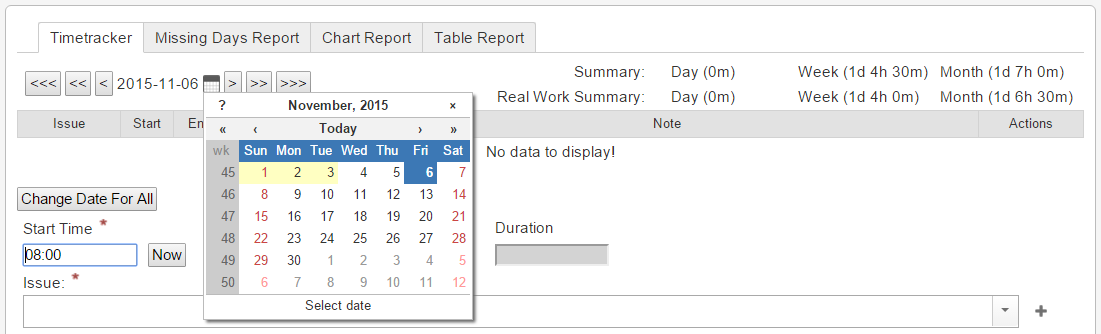
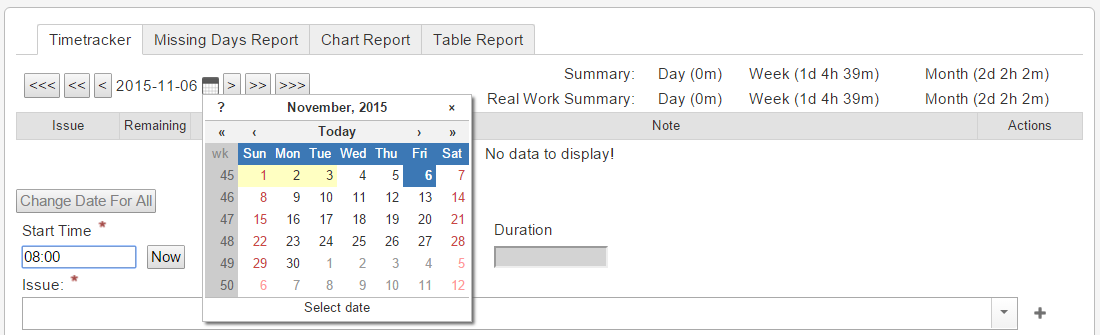
Change images and add info for the 2.2.0 release

diff --git a/index.html b/index.html
@@ -146,11 +146,11 @@
             viewed. Next to the issue code a red exclamation mark appears if it is not closed and if
             there is no more estimated time assigned to it. If the issue is amongst the
             non-estimated ones, then the exclamation mark does not appear.</li>
+		  <li><b>Remaining</b> - Remaining time on the issue in JIRA format (d h m).</li>
           <li><b>Start</b> - Start date of the worklog. Its format: hh:mm.</li>
           <li><b>End</b> - End date of the worklog: Its format: hh:mm.</li>
           <li><b>Duration</b> - Duration of the worklog; the time between the start and the end
-            date in JIRA format (d h m).</li>
-          <li><b>Remaining</b> - Remaining time on the issue in JIRA format (d h m).</li>
+            date in JIRA format (d h m).</li>          
           <li><b>Note</b> - Description of the worklog.</li>
           <li><b>Actions</b> - It contains action buttons: Edit button - After pressing it, the
             given worklog can be edited. Delete button - After pressing it, the given worklog is
@@ -164,9 +164,9 @@
         <p>The input fields can be seen in the bottom of the page. These fields are used when
           editing worklogs.
         <ul>
-          <li><b>Edit All</b> - It may be used to edit the worklog of a whole day. By means of
+          <li><b>Change Date For All</b> - It may be used to edit the worklog of a whole day. By means of
             this option, all the worklogs assigned to a specific date can be reassigned to another
-            one. You may read more about the Edit All function under the Edit Worklog menu item.</li>
+            one. You may read more about the Change Date For All function under the <a href="#edit_worklogs">Edit Worklog</a> menu item.</li>
           <li><b>Start Time</b> - Start time of the worklog. Required! Its format: hh:mm. Its
             default value is 08:00, however, if there are worklogs belonging to the given day, then
             its value equals the end date of the last worklog.
@@ -234,8 +234,8 @@
           effect. Editing can be cancelled by pressing the Cancel button.</p>
         <img class="img-responsive img-thumbnail" src="images/jttp_edit.png" alt="Edit worklog" />
 
-        <h3 id="edit_all">Edit All function</h3>
-        <p>The Edit All button can be found below the worklog table, and it can be used to edit
+        <h3 id="edit_all">Change Date For All function</h3>
+        <p>The Change Date For All button can be found below the worklog table, and it can be used to edit
           all the worklogs assigned to a particular day. In this case, only the date of the worklogs
           can be changed. After selecting the desired date, one may save the worklogs by clicking
           the Save button. At this time, the worklogs will no longer be assigned to the previous
@@ -322,12 +322,14 @@
             they are not counted as such (e.g.: National Holidays).</li>
           <li><b>Include date</b> - List of those days that are non-working days by default,
             but they are counted as working days.</li>
-        </ul>
-        <p>The settings can be saved by pressing the Save button. The Reset button can restore
-          the foregoing settings. By selecting the Cancel button, the user is redirected to the
-          Administrator screen without making any changes.</p>
+        </ul>        
         <img class="img-responsive img-thumbnail" src="images/jttp_global_settings.png"
           alt="Global settings" />
+		<p>The settings can be saved by pressing the Save button. The Reset button can restore
+          the foregoing settings. By selecting the Cancel button, the user is redirected to the
+          Administrator screen without making any changes.</p>
+		<img class="img-responsive img-thumbnail" src="images/jttp_global_settings_buttons.png"
+          alt="Global settings buttons" />
 
       </div>
       <hr class="featurette-divider">
@@ -447,13 +449,70 @@
 
 	  <div class="bs-docs-featurette cookbook" id="analytics">
 	    <h2>Analytics</h2>
-        <p>The Timetracker add-on collects anonymous usage data, which allows us to measure user experience. 
-		  All  sensitive data is encrypted before being uploaded.</p>
+        <p>In order to enhance the features of the add-on, we need to understand how our customers use Timetracker. 
+           To achieve this, we would like to collect anonymous data about the usage of this plugin:</p>
+           <ul>
+             <li>Anonymized IP address (to be able to create statistics about the usage in the different countries)</li>
+			 <li>Hash of the domain address of the JIRA system (we will not know your domain address)</li>
+			 <li>Hash of the user (we will not know your original user id)</li>
+			 <li>Usage count of the time tracking feature</li>
+			 <li>Usage count of the Missing Days Report</li>
+			 <li>Usage count of the Chart Report</li>
+			 <li>Usage count of the Table Report</li>
+			 <li>User Agent of the browser being used</li>
+			 <li>Timetracker version number</li>
+		   </ul>
+		<p>This option is on by default, but you can switch it off on the Global settings page.</p>
+	  </div>
+	  <hr class="featurette-divider">
+	  
+	  <div class="bs-docs-featurette cookbook" id="feedback">
+	    <h2>Feedback</h2>
+        <p>Your thoughts about Timetracker are very important to us, so we built in an easy feedback feature.
+           You can find the feedback button in the right bottom on each pages, and in the upper right on the Global settings page.</p>
+		<p>On the feedback dialog:</p>
+           <ul>
+             <li>Please Rate this add-on by selecting one of the stars.</li>
+			 <li>Tell us what do you like or what needs to be improved. This is mandatory.</li>
+			 <li>Provide your e-mail address if you would like us to contact you about your feedback. 
+			     (We will not use your email for any other purpose and we will never share it with any third party company.)</li>
+		   </ul>		
+        <img class="img-responsive img-thumbnail" src="images/jttp_feedback.png"
+          alt="Analytics" />
 	  </div>
 	  <hr class="featurette-divider">
 	  
       <div class="bs-docs-featurette cookbook" id="release_notes">
         <h2>Release notes</h2>
+		<h3>Timetracker version 2.2.0</h3>
+		<h4 style="margin-left: 20px;">Bugfix</h4>
+        <ul>
+          <li>Fixed duration validation error.</li>
+          <li>Fixed labels missing for unsupported languages.</li>
+          <li>Fixed worklog text area style.</li>
+          <li>Fixed parameter misspelling.</li>
+          <li>Fixed change date and submit action, without logged work.</li>
+		  <li>Fixed sticky command parameters.</li>
+          <li>Added error message for invalid time while editing worklog.</li>
+        </ul>
+        <h4 style="margin-left: 20px;">Changes</h4>
+        <ul>
+          <li>Support for JIRA 7.</li>
+          <li>Change Edit, Delete and Copy buttons to icons.</li>
+          <li>Added remaining estimate column.</li>
+          <li>Added analytics tool.</li>
+          <li>Added feedback feature.</li>
+        </ul>
+		<h3>Timetracker version 1.4.2</h3>
+		<h4 style="margin-left: 20px;">Bugfix</h4>
+        <ul>
+          <li>Fixed labels missing for unsupported languages.</li>
+		  <li>Fixed change date and submit action, without logged work.</li>
+        </ul>
+        <h4 style="margin-left: 20px;">Changes</h4>
+        <ul>
+          <li>Added analytics tool.</li>
+        </ul>
         <h3>Timetracker version 2.1.2</h3>
         <h4 style="margin-left: 20px;">Bugfix</h4>
         <ul>
@@ -639,6 +698,7 @@
           <li><a href="#notification_email">Notification Email</a></li>
           <li><a href="#error_messages">Error messages</a></li>
 		  <li><a href="#analytics">Analytics</a></li>
+		  <li><a href="#feedback">Feedback</a></li>
           <li><a href="#release_notes">Release notes</a></li>
         </ul>
       </nav>
